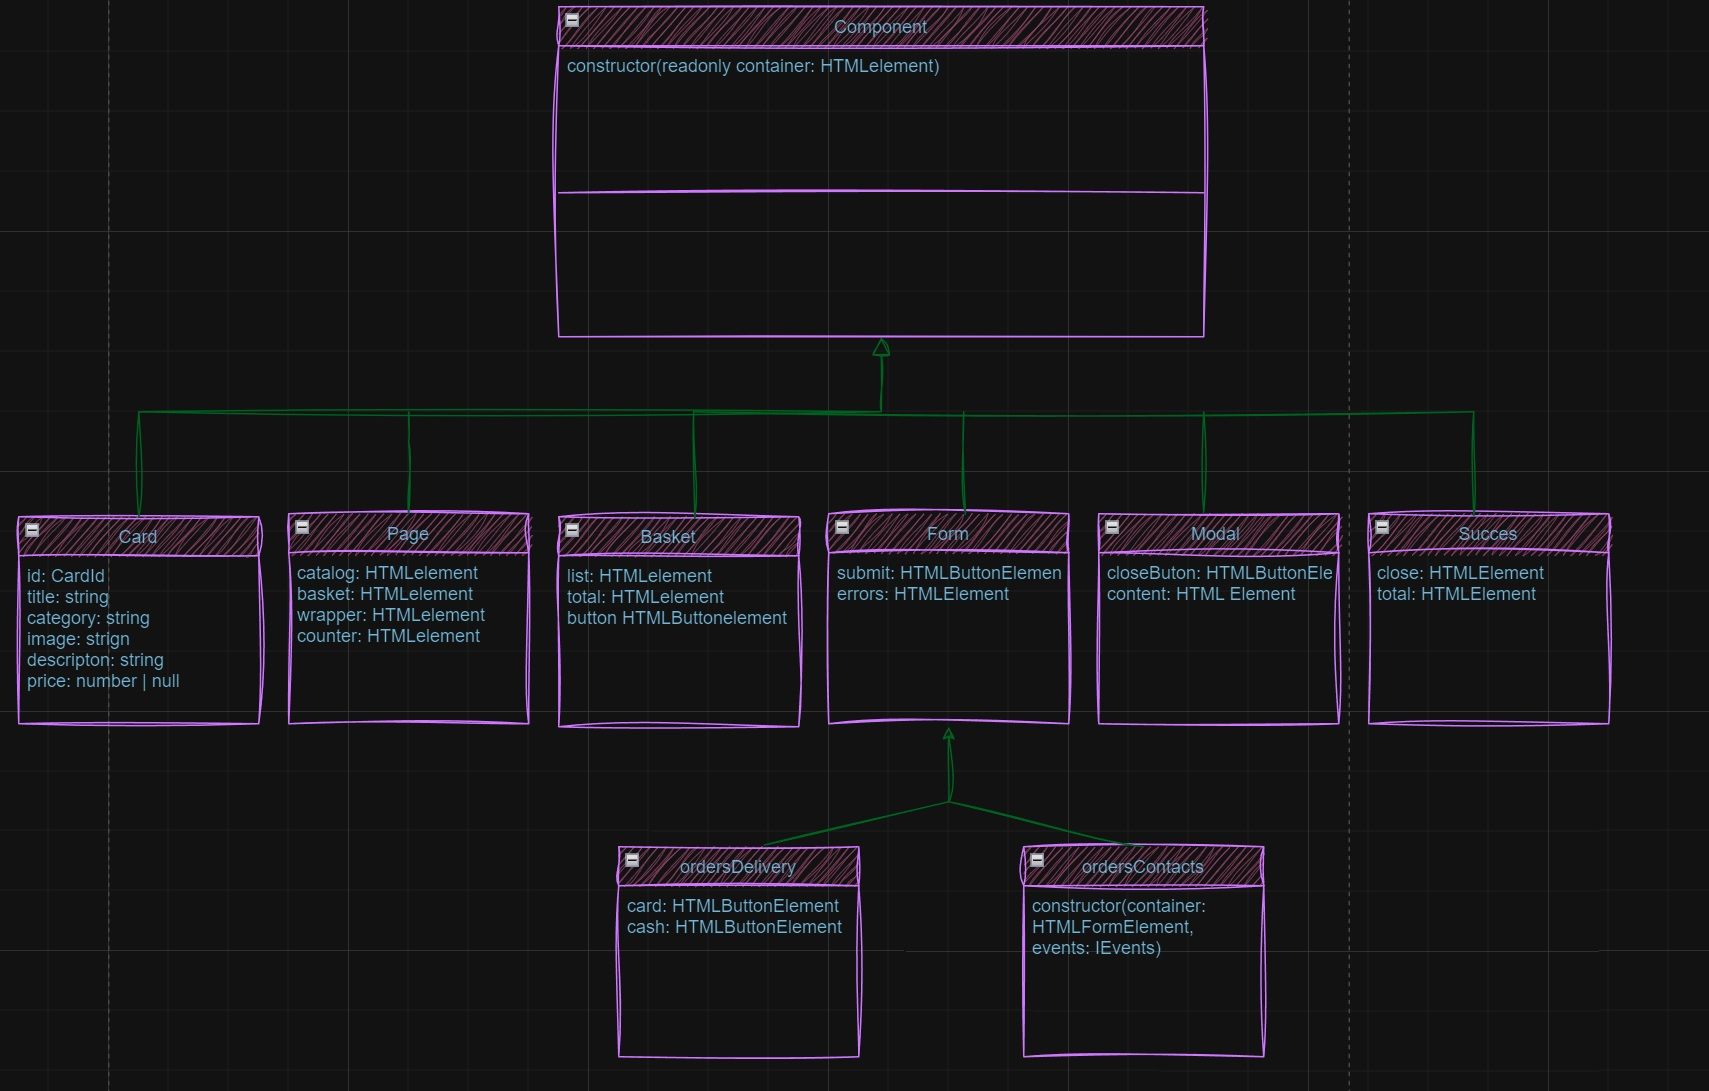
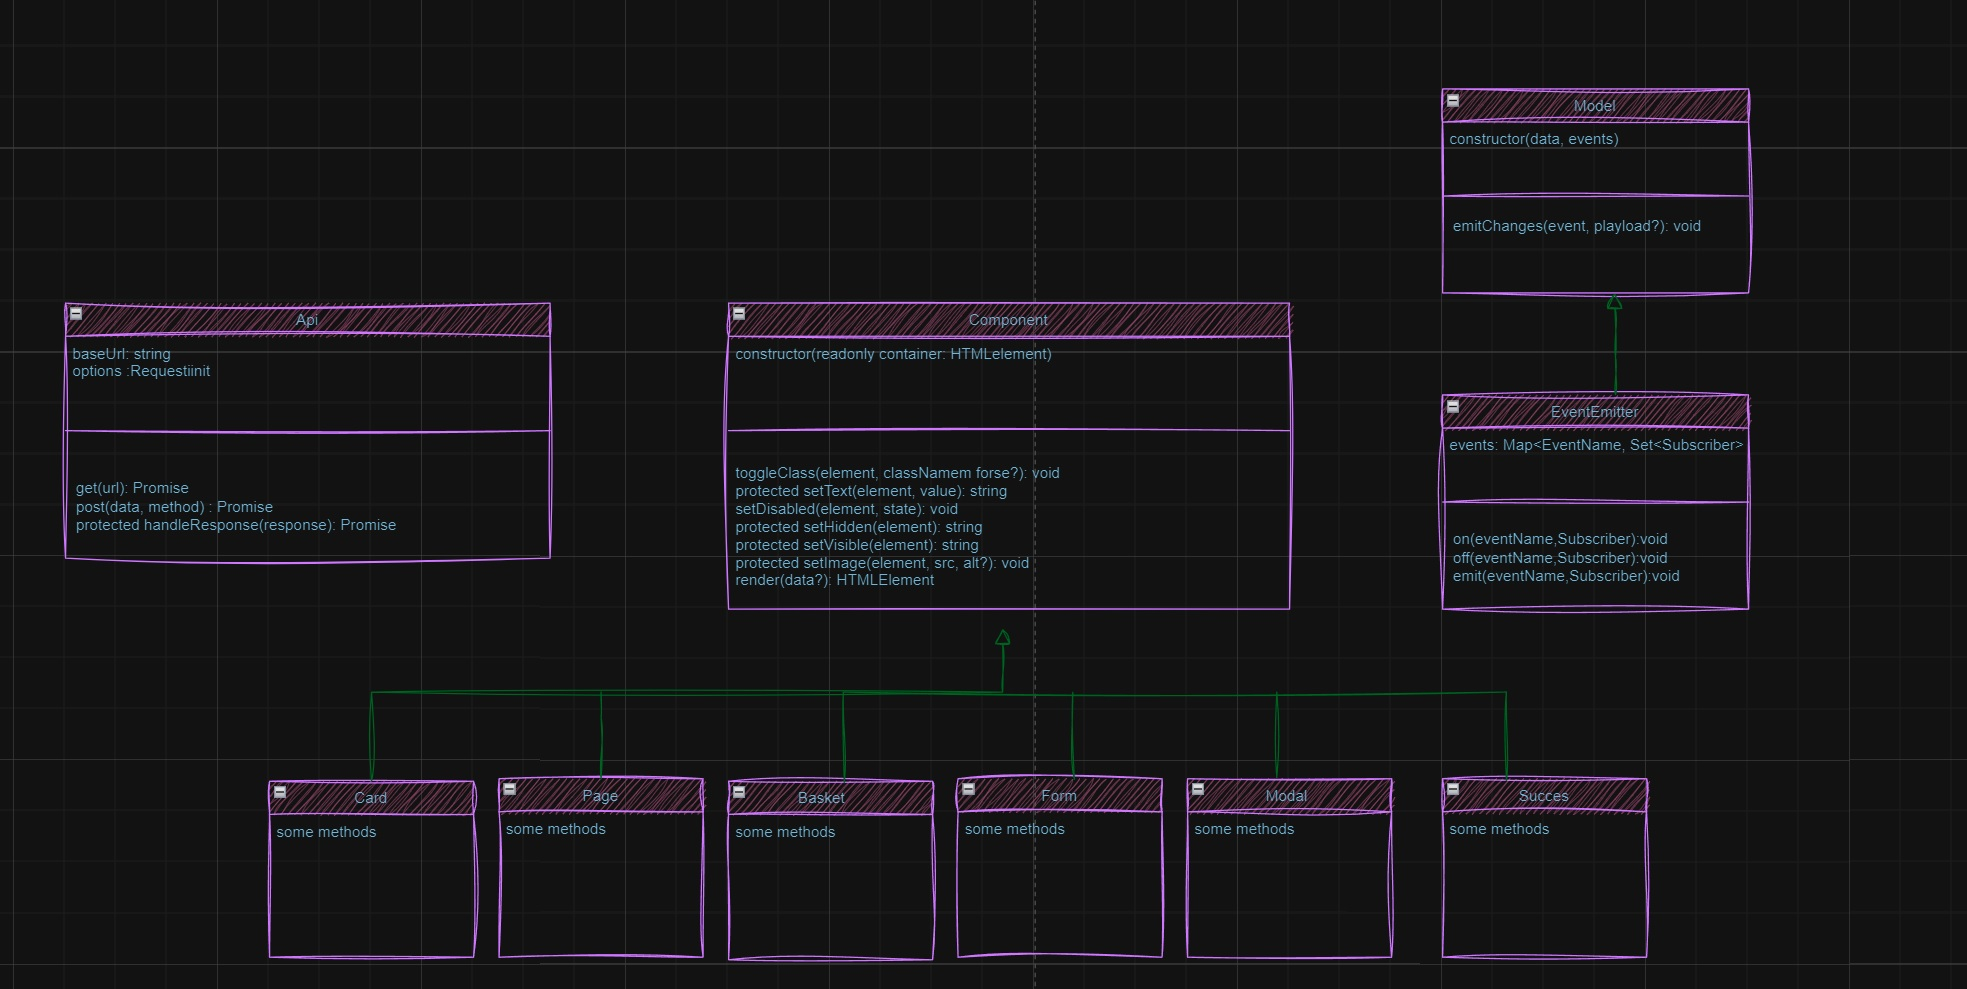
пр8

diff --git a/src/types/index.ts b/src/types/index.ts
@@ -1,73 +1,54 @@
- interface ICard {
-    id: string;
-    description: string;
-    image: string;
-    title: string;
-    category: string;
-    price: number; 
-  }
-  
-interface ICardsData {
-    get cards(): ICard[];
-    set cards(cards: ICard[]);
-    getCard(id: string): ICard | undefined;
-  }
-  
-interface IBasketModel {
-    add(item: ICard): void;
-    remove(id: string): void;
-    clear(): void;
-    getTotal(): number;
-    getTotalPrice(): number;
-    getIds(): string[];
-    isEmpty(): boolean;
-    contains(id: string): boolean;
-    items: ICard[];
-  }
+type CardId = string; 
 
-interface IOrderModel {
-    set payment(payment: TPaymentMethod); 
-    set email(email: string);
-    set phone(phone: string);
-    set address(address: string);
-  }
-  
-type TPaymentMethod = '' | 'card' | 'cash';
-  
-interface IOrderDetails {
-    payment: TPaymentMethod;
-    email: string;
-    phone: string;
-    address: string;
-  }
-  
-interface IPage {
-    set counter(value: number);
-    set catalog(items: HTMLElement[]);
-    set locked(value: boolean);
-    get basket(): HTMLElement;
-  }
-  
-interface IModal {
-    set content(value: HTMLElement);
-      open(): void;
-      close(): void;
-  }
-  
-interface ICardView {
-    render(data: ICard, index?: number, basketIds?: string[]): HTMLElement;
-  }
-  
-interface IBasketView {
-    render(data: { items: HTMLElement[]; price: number; isEmpty: boolean }): HTMLElement;
-  }
-  
-interface IFormView {
-    render(...args: any[]): HTMLElement;
-  }
-  
-interface ISuccess {
-    render(total: number): HTMLElement;
-  }
-  
-type TApiSuccessResp = {id: string, total: number}
+//Интерфейсы базовых классов
+export type EventName = string | RegExp;
+export type Subscriber = Function;
+export type EmitterEvent = {
+    eventName: string,
+    data: unknown
+};
+export interface IEvents {
+    on<T extends object>(event: EventName, callback: (data: T) => void): void;
+    emit<T extends object>(event: string, data?: T): void;
+    trigger<T extends object>(event: string, context?: Partial<T>): (data: T) => void;
+}
+export type ApiListResponse<Type> = {
+    total: number,
+    items: Type[]
+};
+export type ApiPostMethods = 'POST' | 'PUT' | 'DELETE';
+
+//Интерфейсы моделей данных
+//Интерфейсы компонентов представления
+
+export interface ICard {
+    id: CardId,
+    description: string,
+    image: string,
+    title: string,
+    category: string,
+    price: number | null,
+}
+export interface IOrder {
+    payment: string,
+    email: string,
+    phone: string,
+    address: string,
+    total: number | null,
+    items: CardId[],
+}
+export interface IOrderSuccess {
+    id: string, //uuid?
+    total: number | null,
+}
+export interface ISuccess {
+    image: string,
+    title: string,
+    description: string,
+    total: number | null,
+}
+export interface IBasket {
+    items: HTMLElement[];
+    total: number;
+}
+export type FormErrors = Partial<Record<keyof IOrder, string>>;

diff --git a/README.md b/README.md
@@ -40,103 +40,51 @@ npm run build
 ```
 yarn build
 ```
-Архитектура(в 9 ПР работе ЕР-модель доделается с учетом API):
+
+Архитектура
+
+### ЕR-модель:
 ![alt text](PR8.jpg)
 
-Данные и типы данных:
--Интерфейс для данных каточки товара (в таком виде данные приходят с сервера).
+### 1. Класс EventEmitter
+ 
+Реализует паттерн «Наблюдатель» и позволяет подписываться на события и уведомлять о наступлении события.
+Класс имеет методы `on` ,  `off` ,  `emit`  — для подписки на событие, отписки от события и уведомления подписчиков о наступлении события соответственно.
+Дополнительно реализованы методы  `onAll` и  `offAll`  — для подписки на все события и сброса всех подписчиков.
 
-```
-interface ICard {
-  id: string;
-  description: string;
-  image: string;
-  title: string;
-  category: string;
-  price: number; 
-}
-```
--Интерфейс для модели данных карточек(товаров).
-```
-interface ICardsData {
-  set cards(cards: ICard[]);
-  get cards(): ICard[];
-  getCard(id: string): ICard | undefined;
-}
-```
--Интерфейс для модели данных корзины.
-```
-interface IBasketModel {
-  add(item: ICard): void;
-  remove(id: string): void;
-  clear(): void;
-  getTotal(): number;
-  getTotalPrice(): number;
-  getIds(): string[];
-  isEmpty(): boolean;
-  contains(id: string): boolean;
-}
-```
--Тип данных метода оплаты.
-```
-type TPaymentMethod = '' | 'card' | 'cash';
-```
--Интерфейс данных заказа.
-```
-interface IOrderDetails {
-  payment: TPaymentMethod;
-  email: string;
-  phone: string;
-  address: string;
-}
-```
--Интерфейс для модели данных заказа.
-```
-interface IOrderModel {
-  set payment(payment: TPaymentMethod); 
-  set email(email: string);
-  set phone(phone: string);
-}
-```
+### 2. Класс Api
 
--Интерфейс для отображения главной страницы.
-```
-interface IPage {
-  set counter(value: number);
-  set catalog(items: HTMLElement[]);
-  set locked(value: boolean);
-  get basket(): HTMLElement;
-}
-```
--Интерфейс для отображения модального окна.
-```
-interface IModal {
-  set content(value: HTMLElement)
-	open(): void;
-	close(): void;
-}
-```
--Интерфейс для отображения карточки.
-```
-interface ICardView {
-  render(data: ICard, index?: number, basketIds?: string[]): HTMLElement;
-}
-```
--Интерфейс для отображения корзины.
-```
-interface IBasketView {
-  render(data: { items: HTMLElement[]; price: number; isEmpty: boolean }): HTMLElement;
-}
-```
--Интерфейс для отображения форм.
-```
-interface IFormView {
-  render(...args: any[]): HTMLElement;
-}
-```
--Интерфейс для отображения успешного заказа.
-```
-interface ISuccess {
-  render(total: number): HTMLElement;
-}
-```
+Данный класс осуществляет работу с базовыми запросами к серверу (GET, POST, PUT, DELETE) и занимается обработкой ответов, полученных от сервера.
+Класс имеет методы: 
+`get` и `post` - для выполнения самх запросов к серверу, 
+`handleRespons` - для обработки ответа сервера, его парсинга и обработки ошибок.
+
+### 3. Класс Component
+
+Базовый класс, который наследуется всеми компонентами - страница, корзина, карточки товаров, модальные окна. Назначение - создание HTML элементов и управление их свойствами.
+В состав класса входят методы:
+`toggleClass` - для переключения класса конкретного DOM-элемента,
+`setImage` - для установки изображения (src) и альтернативного текста (alt) для конкретного DOM-элемента,
+`setVisible` - для показа конкретного DOM-элемента,
+`setHidden` - для скрытия конкретного DOM-элемента,
+`setText` - для установки текста в свойство textContent конкретного DOM-элемента,
+`setDisabled` - для "отключения" переданного DOM-элемента,
+`render` - для генерации компонента и "отрисовки" его в разметке.
+
+### 4. Класс Model
+Базовый класс, предназначенный для создания модельных данных, используемых для управления данными приложения. Напрямую "общается" с EventEmitter, принимая в конструктор данные модели и аргумент `events`.
+Включает в себя только один метод:
+`emitChanges` - для сообщения всем подписчикам о том, что модель изменилась. 
+
+## Компоненты модели данных
+В процессе реализации
+
+## Компоненты представления
+Возможные классы для реализации в будущем:
+_класс Basket - корзина товара/товаров,
+_класс Card - карточка товара,
+_класс Form - форма оформления заказа (поля ввода, валидация формы, подтверждения),
+_класс Modal - универсальное модальное окно,
+_класс Success - отображает информационное сообщение об успешной покупке,
+_класс Page - для отображения элементов страницы (карточек товара, корзины и т.д.).
+
